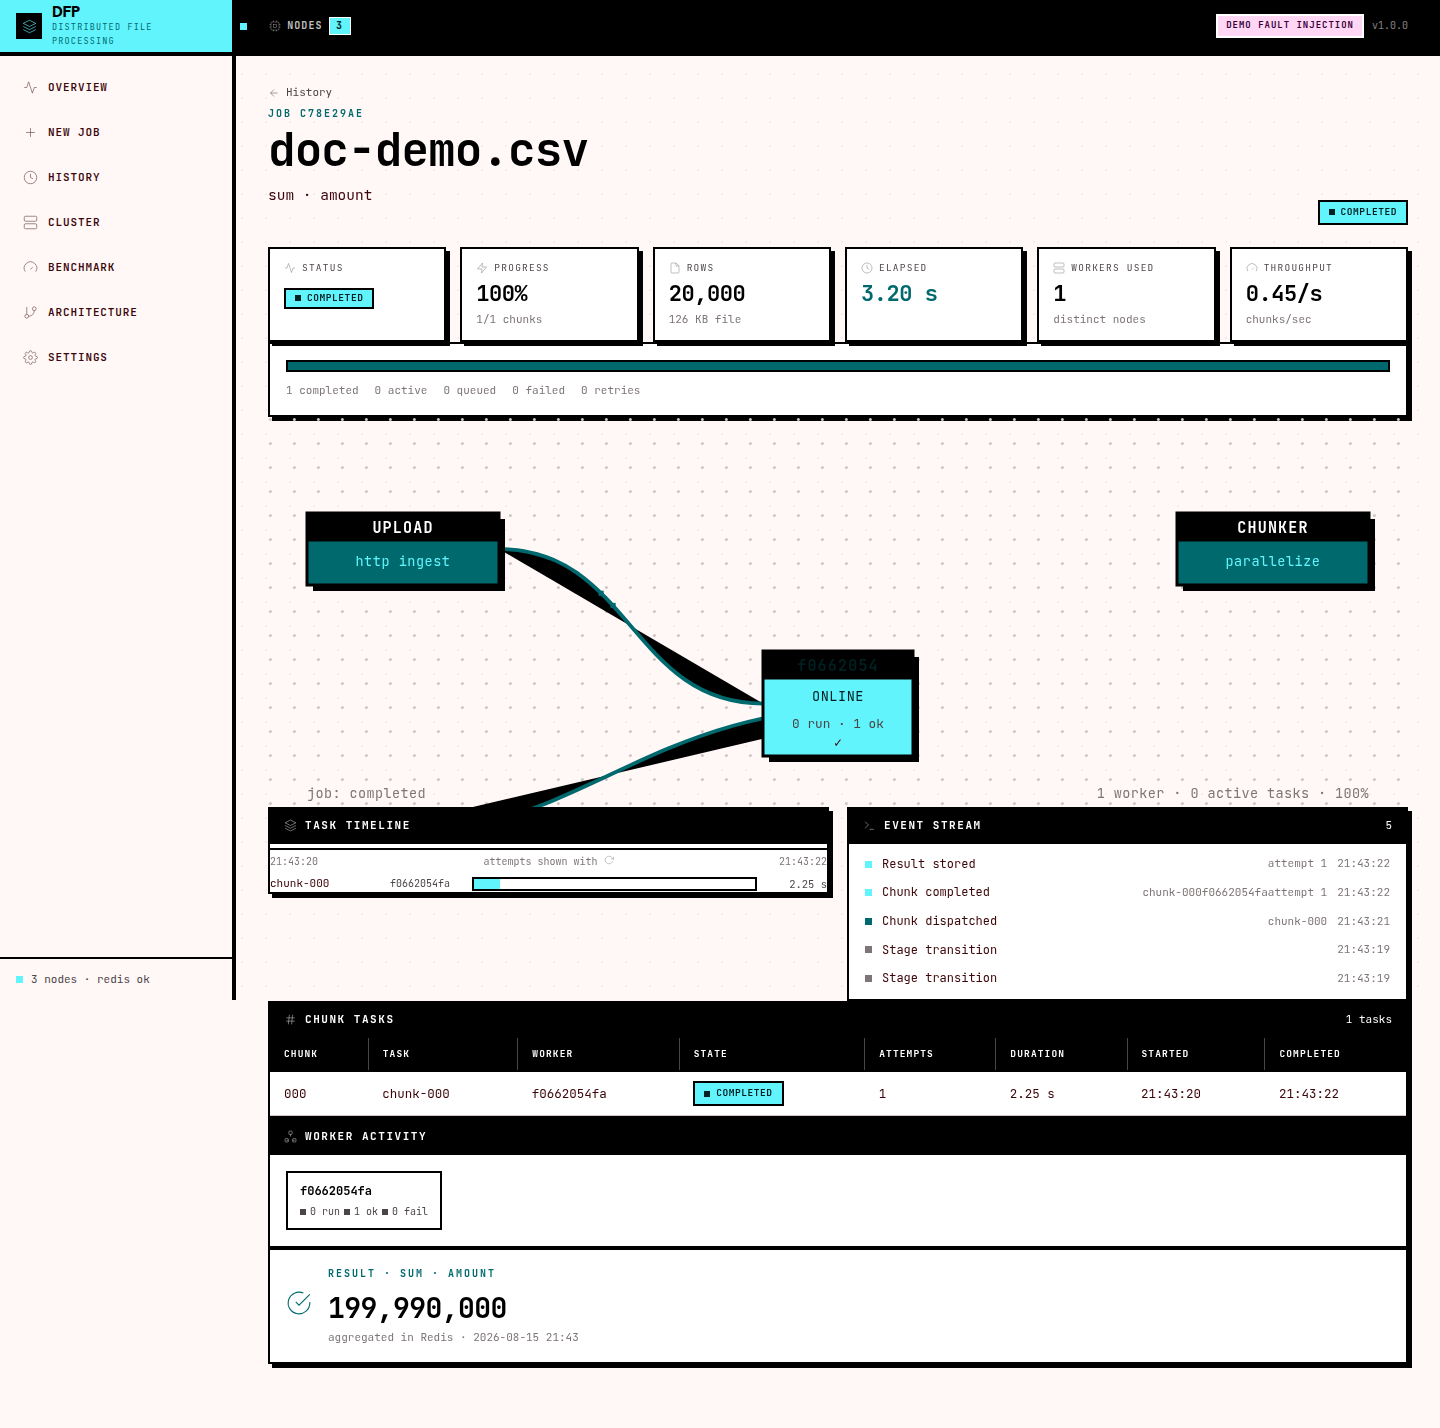
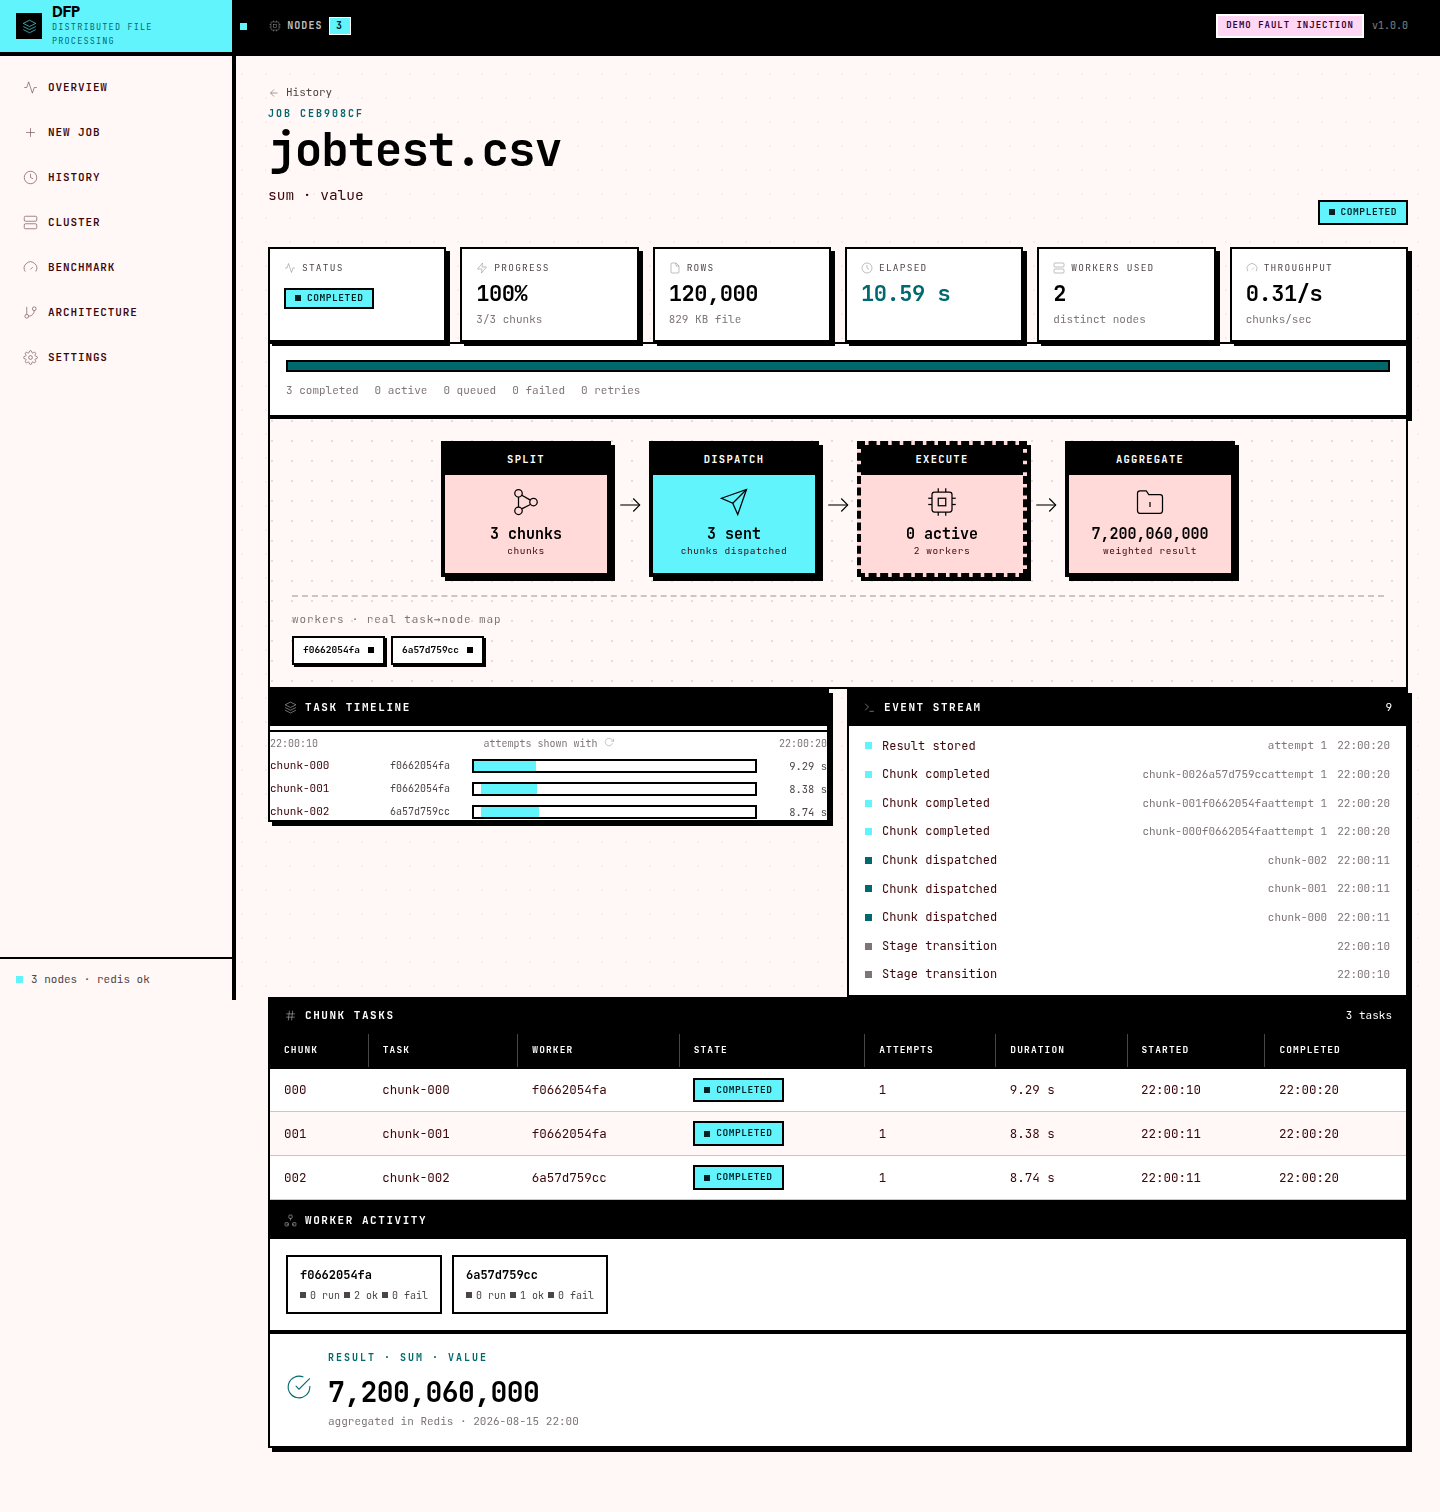
feat(ui): job trace page uses the Obsidian Flux block schematic
Replace the old SVG exec-graph on the job page with jobFlow(), the same
designed block-flow used on Overview and Architecture:

- Split -> Dispatch -> Execute -> Aggregate cards over a dot-grid canvas
- real numbers only: chunk count, dispatched, active tasks, weighted result
  (or progress while running), all from the live job detail payload
- live pulse dot on the Execute card while the job is processing
- worker-chip strip under the flow from the real task->worker mapping with
  run / ok / fail dots
- tone-ok Aggregate card when the job completes; reduced-motion still kills
  the pulse

Verified: 11/11 browser checks on a completed 120k-row job, live pulse while
processing, node tests 24/24, audit + anti-slop PASS.

diff --git a/frontend/js/schematic.js b/frontend/js/schematic.js
@@ -6,6 +6,10 @@
 
 import { icon } from "./icons.js";
 
+function escapeAttr(s) {
+  return String(s ?? "").replace(/&/g, "&amp;").replace(/</g, "&lt;").replace(/>/g, "&gt;").replace(/"/g, "&quot;");
+}
+
 const head = (label, extra = "") => `
   <div class="sc-card-head">${extra}<span>${label}</span></div>`;
 
@@ -29,6 +33,45 @@ export function topologyFlow(flow) {
         </div>
       </div>`).join("")}
   </div>`;
+}
+
+// Per-job execution schematic — the same Obsidian Flux block-flow as the
+// overview, but scoped to one job: Split → Dispatch → Execute → Aggregate,
+// with a live worker-chip strip from the real task→worker mapping.
+export function jobFlow(flow) {
+  const nodes = [
+    { label: "Split", tone: "", value: flow.split, sub: "chunks", iconName: "split" },
+    { label: "Dispatch", tone: "accent", value: flow.dispatch, sub: flow.dispatchSub || "chunks / s", iconName: "send" },
+    { label: "Execute", tone: "dash", value: flow.execute, sub: flow.executeSub || "active", iconName: "cpu", live: flow.isActive },
+    { label: "Aggregate", tone: flow.done ? "ok" : "", value: flow.aggregate, sub: flow.aggregateSub || "result", iconName: "folderZip" },
+  ];
+  const workerChips = (flow.workerChips || []).map((w) => {
+    const dots = `${w.running ? `<span class="dot on" title="running"></span>` : ""}${w.completed ? `<span class="dot ok" title="completed"></span>` : ""}${w.failed ? `<span class="dot bad" title="failed"></span>` : ""}`;
+    return `
+      <div class="sc-wchip" title="${escapeAttr(w.id)} ${w.running} run · ${w.completed} ok · ${w.failed} fail">
+        <span class="mono">${escapeAttr(w.label)}</span>
+        <span class="sc-wchip-dots">${dots}</span>
+      </div>`;
+  }).join("");
+
+  return `
+  <div class="sc-flow">
+    ${nodes.map((n, i) => `
+      ${i > 0 ? `<span class="sc-arrow" aria-hidden="true">${icon("arrowForward", 26)}</span>` : ""}
+      <div class="sc-card tone-${n.tone}">
+        ${head(n.label, n.live ? `<span class="sc-live-dot" aria-hidden="true"></span>` : "")}
+        <div class="sc-card-body">
+          <span class="sc-card-icon" aria-hidden="true">${icon(n.iconName, 30)}</span>
+          <span class="sc-card-value mono">${n.value}</span>
+          <span class="sc-card-sub mono">${n.sub}</span>
+        </div>
+      </div>`).join("")}
+  </div>
+  ${workerChips ? `
+    <div class="sc-job-workers">
+      <div class="sc-job-workers-label mono xs dim">workers · real task→node map</div>
+      <div class="sc-job-workers-row">${workerChips}</div>
+    </div>` : ""}`;
 }
 
 // Technical architecture schematic — 4 geometric layers with bold arrows:

diff --git a/frontend/js/views/job.js b/frontend/js/views/job.js
@@ -17,7 +17,7 @@ import {
   formatBytes, formatNumber, formatMs, formatElapsed, shortNode,
   formatDateTime, shortId, formatClock,
 } from "../format.js";
-import { renderGraph } from "../execgraph.js";
+import { jobFlow } from "../schematic.js";
 
 const EVENT_LABELS = {
   created: "Job created",
@@ -140,16 +140,30 @@ export async function mountJob(root, jobId) {
       </div></div>
     `));
 
-    // Execution graph — the signature element.
-    pipeline.innerHTML = renderGraph({
-      active: n.status,
-      running: p.active,
-      progress: n.progress,
-      workers: Object.keys(n.workerUsage || {}).length,
-      taskGroups: groupTasksByWorker(tasks),
-      width: 760,
-      height: 260,
-    });
+    // Execution schematic — the Obsidian Flux block-flow over a dot-grid,
+    // matching the overview/architecture diagrams. All numbers are real.
+    const workerGroups = groupTasksByWorker(tasks);
+    const workerChips = Object.entries(workerGroups).map(([id, g]) => ({
+      id,
+      label: id === "__unassigned__" ? "unassigned" : shortNode(id),
+      running: g.running,
+      completed: g.completed,
+      failed: g.failed,
+    }));
+    const hasWorkers = workerChips.length > 0;
+    const executed = p.completed + p.failed + p.retried;
+    pipeline.innerHTML = `<div class="sc-canvas">${jobFlow({
+      split: formatNumber(n.estimatedChunks) + " chunks",
+      dispatch: executed > 0 ? `${formatNumber(executed)} sent` : "—",
+      dispatchSub: "chunks dispatched",
+      execute: formatNumber(p.active) + " active",
+      executeSub: hasWorkers ? `${workerChips.length} worker${workerChips.length > 1 ? "s" : ""}` : "tasks running",
+      aggregate: n.status === "completed" ? formatNumber(n.result, 2) : n.status === "failed" ? "—" : `${Math.round(n.progress)}%`,
+      aggregateSub: n.status === "completed" ? "weighted result" : n.status === "failed" ? "no result" : "progress",
+      isActive,
+      done: n.status === "completed",
+      workerChips: hasWorkers ? workerChips : null,
+    })}</div>`;
 
     // Fault-recovery sequence (demo jobs that experienced a retry).
     faultEl.replaceChildren(renderFaultSequence(tasks, events, isActive));

diff --git a/frontend/styles.css b/frontend/styles.css
@@ -1488,6 +1488,27 @@ select.input { appearance: none; -webkit-appearance: none; padding-right: 30px;
   box-shadow: var(--shadow-xs);
 }
 
+/* Per-job worker chips strip (job trace schematic) */
+.sc-job-workers {
+  display: flex; flex-direction: column; gap: 8px;
+  margin-top: 18px;
+  border-top: var(--bw) dashed var(--border-soft);
+  padding-top: 14px;
+  min-width: 640px;
+}
+.sc-job-workers-label { letter-spacing: 0.08em; }
+.sc-job-workers-row { display: flex; flex-wrap: wrap; gap: 6px; }
+.sc-wchip {
+  display: inline-flex; align-items: center; gap: 8px;
+  padding: 5px 9px;
+  border: var(--bw) solid var(--border);
+  background: var(--surface);
+  box-shadow: var(--shadow-xs);
+}
+.sc-wchip .mono { font-size: 9.5px; font-weight: 700; color: var(--text); }
+.sc-wchip-dots { display: inline-flex; gap: 4px; }
+.sc-wchip-dots .dot { width: 6px; height: 6px; border-radius: 0; }
+
 @media (max-width: 900px) {
   .sc-orch-body { grid-template-columns: 1fr; }
 }
